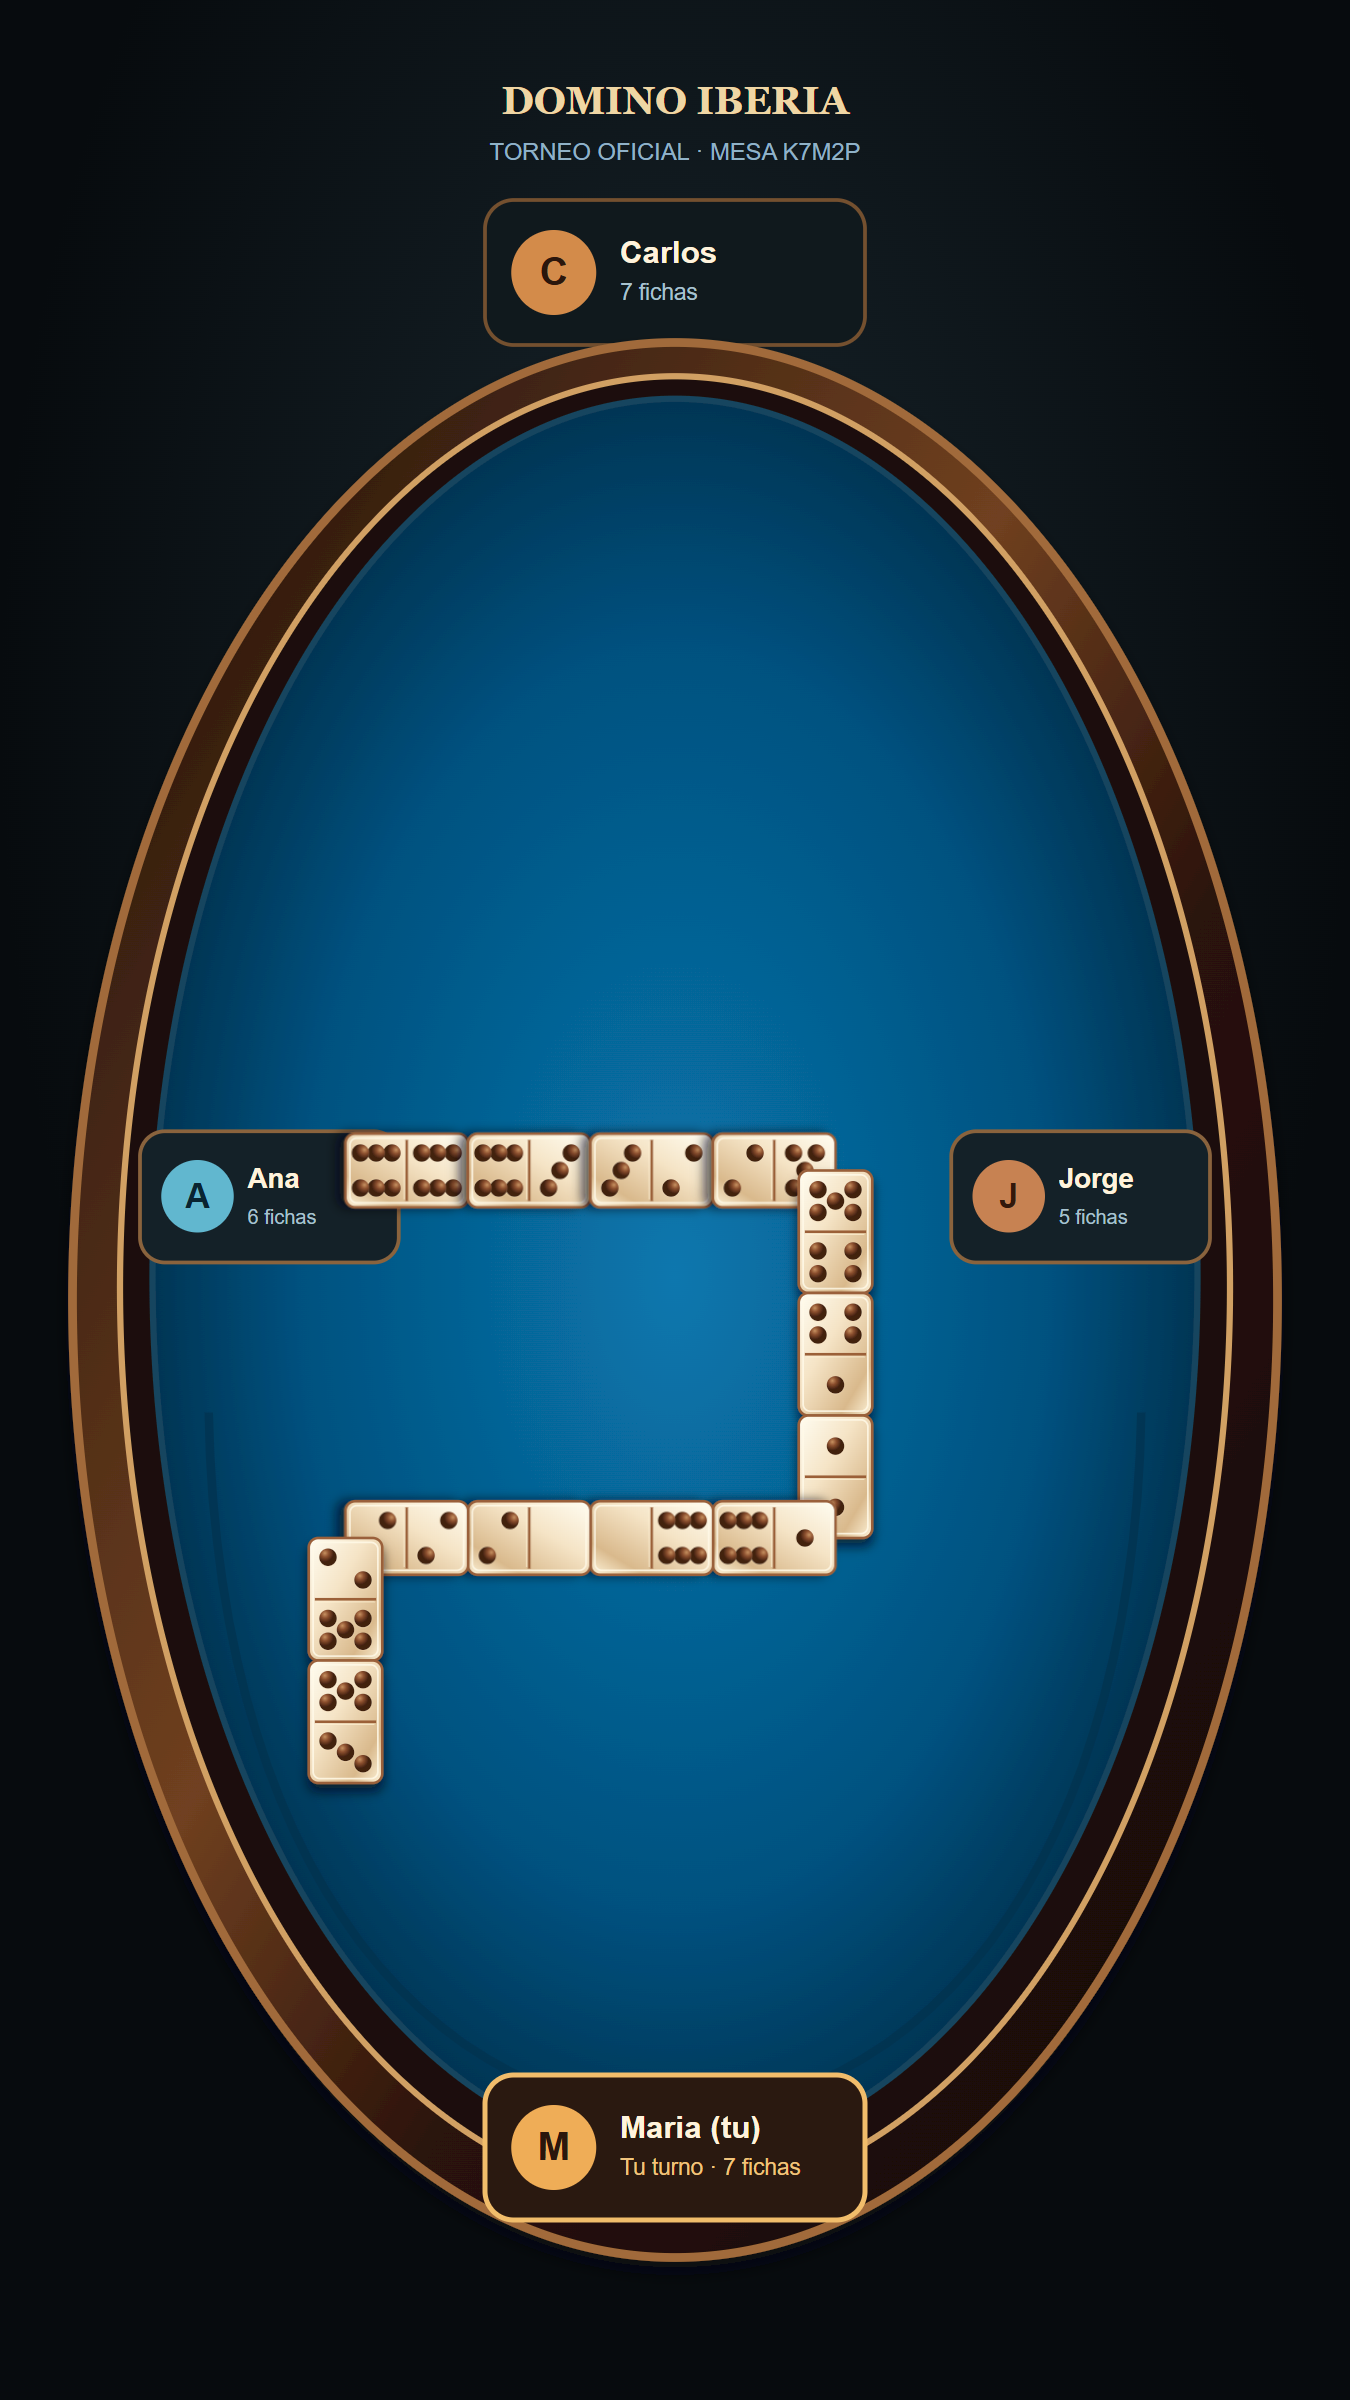
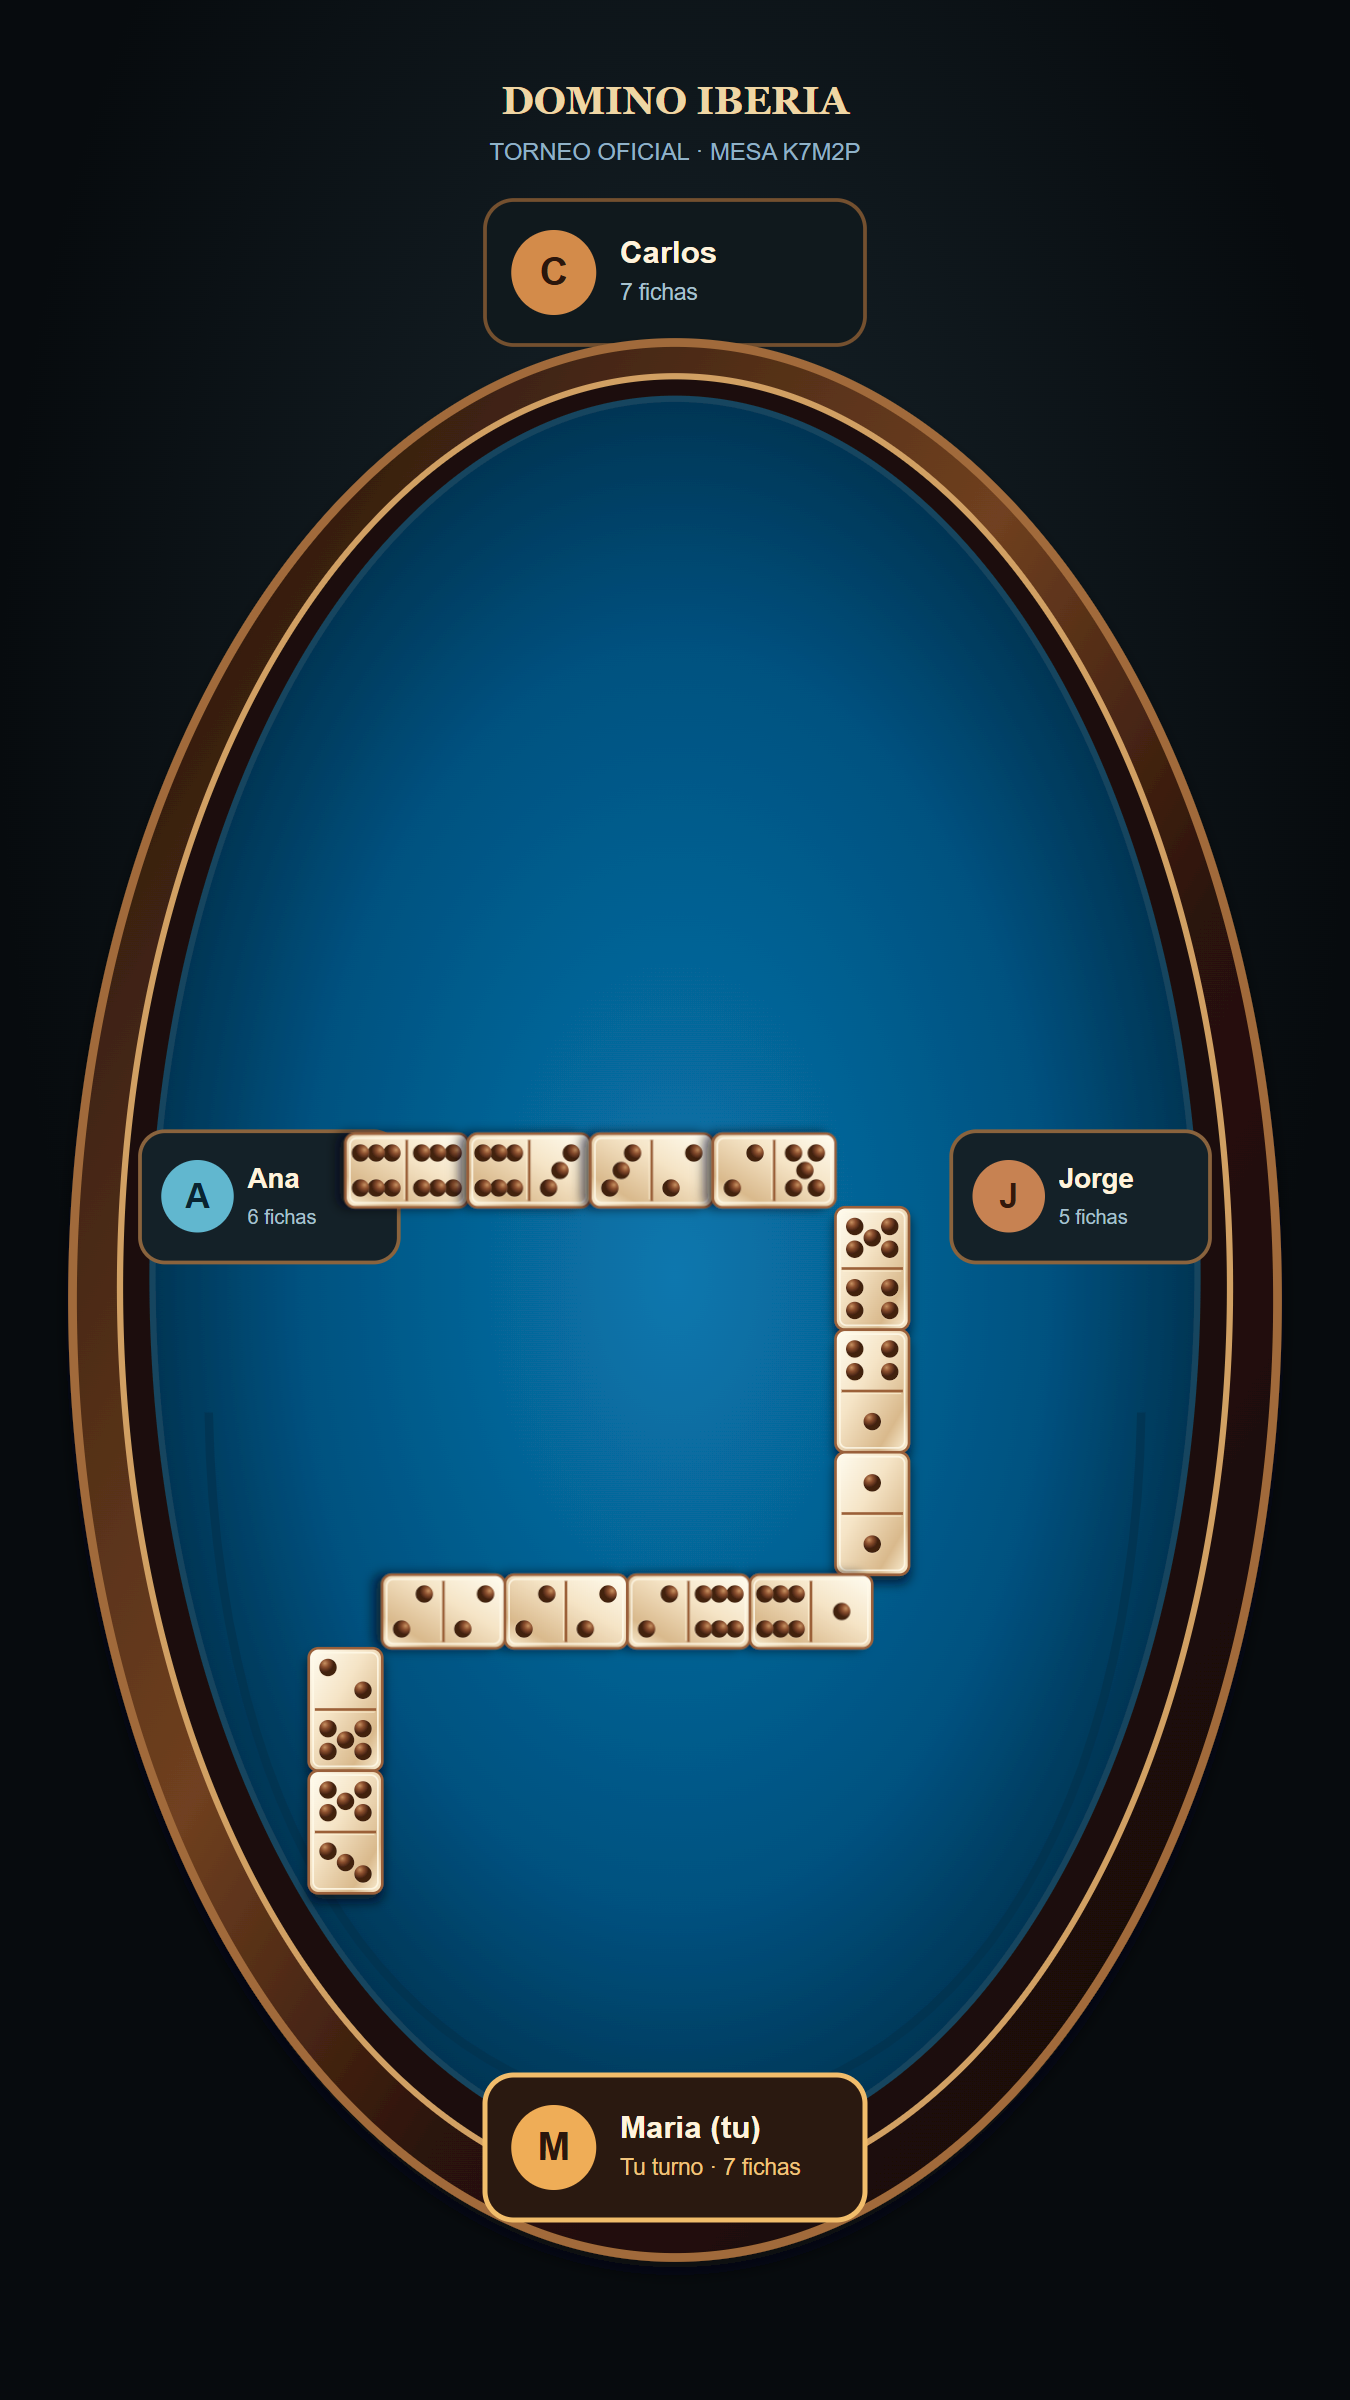
Separa giros de fichas domino

Changed region(s): [[0.2178, 0.4688, 0.6844, 0.8125]]

diff --git a/frontend/src/components/Domino.css b/frontend/src/components/Domino.css
@@ -1,6 +1,6 @@
 .mesa-tramo.giro-izquierda { left: 10%; bottom: calc(4% + var(--pos) * 9%); }.posicion-0 { --pos: 0; }.posicion-1 { --pos: 1; }.posicion-2 { --pos: 2; }.posicion-3 { --pos: 3; }.posicion-4 { --pos: 4; }.posicion-5 { --pos: 5; }.posicion-6 { --pos: 6; }.posicion-7 { --pos: 7; }
-.domino-cadena .mesa-tramo.uno { left: calc(50% - 205px + var(--pos) * 54px); }.domino-cadena .mesa-tramo.dos { right: calc(50% - 205px + var(--pos) * 54px); }.domino-cadena .mesa-tramo.giro-derecha, .domino-cadena .mesa-tramo.giro-izquierda { top: calc(49% + var(--pos) * 54px); bottom: auto; }.domino-cadena .mesa-tramo.giro-derecha { right: calc(50% - 200px); }.domino-cadena .mesa-tramo.giro-izquierda { left: calc(50% - 234px); }
-@media (max-width: 720px) { .domino-ficha.compacta { width: 22px; min-width: 22px; height: 36px; }.domino-cadena .mesa-tramo.uno { left: calc(50% - 137px + var(--pos) * 36px); }.domino-cadena .mesa-tramo.dos { right: calc(50% - 137px + var(--pos) * 36px); }.domino-cadena .mesa-tramo.giro-derecha { right: calc(50% - 133px); }.domino-cadena .mesa-tramo.giro-izquierda { left: calc(50% - 155px); }.domino-cadena .mesa-tramo.giro-derecha, .domino-cadena .mesa-tramo.giro-izquierda { top: calc(49% + var(--pos) * 36px); } }
+.domino-ficha.compacta { width: 26px; min-width: 26px; height: 42px; }.domino-ficha.compacta .domino-cara i { width: 3px; height: 3px; }.domino-cadena .mesa-tramo.uno { left: calc(50% - 159px + var(--pos) * 42px); }.domino-cadena .mesa-tramo.dos { right: calc(50% - 159px + var(--pos) * 42px); }.domino-cadena .mesa-tramo.giro-derecha, .domino-cadena .mesa-tramo.giro-izquierda { top: calc(49% + 26px + var(--pos) * 42px); bottom: auto; }.domino-cadena .mesa-tramo.giro-derecha { right: calc(50% - 180px); }.domino-cadena .mesa-tramo.giro-izquierda { left: calc(50% - 206px); }
+@media (max-width: 720px) { .domino-ficha.compacta { width: 18px; min-width: 18px; height: 29px; }.domino-ficha.compacta .domino-cara i { width: 2px; height: 2px; }.domino-cadena .mesa-tramo.uno { left: calc(50% - 107px + var(--pos) * 29px); }.domino-cadena .mesa-tramo.dos { right: calc(50% - 107px + var(--pos) * 29px); }.domino-cadena .mesa-tramo.giro-derecha { right: calc(50% - 122px); }.domino-cadena .mesa-tramo.giro-izquierda { left: calc(50% - 140px); }.domino-cadena .mesa-tramo.giro-derecha, .domino-cadena .mesa-tramo.giro-izquierda { top: calc(49% + 18px + var(--pos) * 29px); } }
 .domino-tablero { min-height: 510px; padding: 0; overflow: hidden; border: 10px solid #4a210f; border-radius: 58px; background: #281209; box-shadow: inset 0 0 0 2px #a96532, 0 14px 28px rgba(0, 0, 0, .3); }.domino-mesa { min-height: 430px; border: 10px solid #1d0d07; border-radius: 48px 48px 28px 28px; background: radial-gradient(circle at 50% 45%, #075c91 0%, #03416b 55%, #022c4b 100%); box-shadow: inset 0 0 0 3px #7c3c1b, inset 0 0 40px rgba(0, 0, 0, .4); }.domino-cadena { position: absolute; inset: 0; }.domino-cadena > span { position: absolute; inset: 0; display: grid; place-items: center; color: #d8e6ec; }.domino-ficha { border-color: #d7a26c; background: linear-gradient(135deg, #fff8e9, #f0c995); box-shadow: 0 2px 4px rgba(0, 0, 0, .5), inset 0 1px 0 #fffdf5; }.domino-ficha > b { background: #bd8758; }.domino-cara i { background: radial-gradient(circle at 35% 30%, #a35d37 0 12%, #603018 35% 100%); }.domino-ficha.compacta { width: 34px; min-width: 34px; height: 54px; border-color: #d7a26c; }.domino-ficha.compacta .domino-cara i { width: 4px; height: 4px; }.domino-cadena .mesa-tramo.uno { top: 49%; left: calc(25% + var(--pos) * 5.4%); transform: rotate(90deg); }.domino-cadena .mesa-tramo.dos { top: 64%; right: calc(25% + var(--pos) * 5.4%); transform: rotate(90deg); }.domino-cadena .mesa-tramo.giro-derecha { right: 23%; top: calc(49% + var(--pos) * 8%); }.domino-cadena .mesa-tramo.giro-izquierda { left: 23%; bottom: calc(10% + var(--pos) * 8%); }.domino-asiento { position: absolute; z-index: 2; display: flex; align-items: center; gap: 8px; min-width: 148px; padding: 7px 10px; border: 2px solid #8e5734; border-radius: 13px; background: linear-gradient(145deg, #44200f, #1d0c06); color: #fff2dd; box-shadow: 0 5px 12px rgba(0, 0, 0, .45); }.domino-asiento.arriba { top: 15px; left: 50%; transform: translateX(-50%); }.domino-asiento.abajo { bottom: 15px; left: 50%; transform: translateX(-50%); }.domino-asiento.izquierda { left: 14px; top: 50%; transform: translateY(-50%); }.domino-asiento.derecha { right: 14px; top: 50%; transform: translateY(-50%); }.domino-asiento.soy-yo { border-color: #f2b868; box-shadow: 0 0 0 2px rgba(242, 184, 104, .2), 0 5px 12px rgba(0, 0, 0, .45); }.domino-asiento.turno-activo { border-color: #76d4ff; }.domino-asiento strong { display: block; font-size: 14px; }.domino-asiento span { display: block; margin-top: 2px; color: #ecc49e; font-size: 12px; }.domino-avatar { display: grid; width: 30px; height: 30px; flex: 0 0 30px; place-items: center; border-radius: 50%; background: linear-gradient(135deg, #f2c16d, #a94e2b); color: #211008; font-weight: 900; }.domino-controles { padding: 14px; background: #341507; }
 @media (max-width: 720px) { .domino-tablero { min-height: 410px; border-width: 7px; border-radius: 34px; }.domino-mesa { min-height: 340px; border-width: 6px; border-radius: 28px; }.domino-asiento { min-width: 104px; padding: 5px 7px; gap: 5px; }.domino-asiento strong { font-size: 11px; }.domino-asiento span { font-size: 10px; }.domino-avatar { width: 23px; height: 23px; flex-basis: 23px; font-size: 12px; }.domino-cadena .mesa-tramo.uno { left: calc(18% + var(--pos) * 8%); }.domino-cadena .mesa-tramo.dos { right: calc(18% + var(--pos) * 8%); }.domino-cadena .mesa-tramo.giro-derecha { right: 13%; }.domino-cadena .mesa-tramo.giro-izquierda { left: 13%; } }
 .domino-ficha { border: 2px solid #9a613a; border-radius: 9px; background: linear-gradient(135deg, #fffdf2 0%, #f5e4c6 40%, #d9b98c 78%, #fff5dc 100%); box-shadow: 0 5px 7px rgba(0, 0, 0, .5), inset 0 1px 0 #fffdf3, inset 0 0 0 2px rgba(255, 250, 232, .75); }.domino-ficha > b { height: 2px; background: linear-gradient(#8b5230, #f7e5c7); }.domino-cara i { width: 8px; height: 8px; background: radial-gradient(circle at 32% 26%, #c69060 0 12%, #8b4f2e 42%, #422010 100%); box-shadow: 0 1px 1px rgba(255, 233, 196, .7), inset 0 1px 1px rgba(46, 19, 8, .65); }.domino-ficha.compacta { width: 36px; min-width: 36px; height: 58px; border-radius: 6px; padding: 3px; }.domino-ficha.compacta .domino-cara i { width: 4px; height: 4px; }
